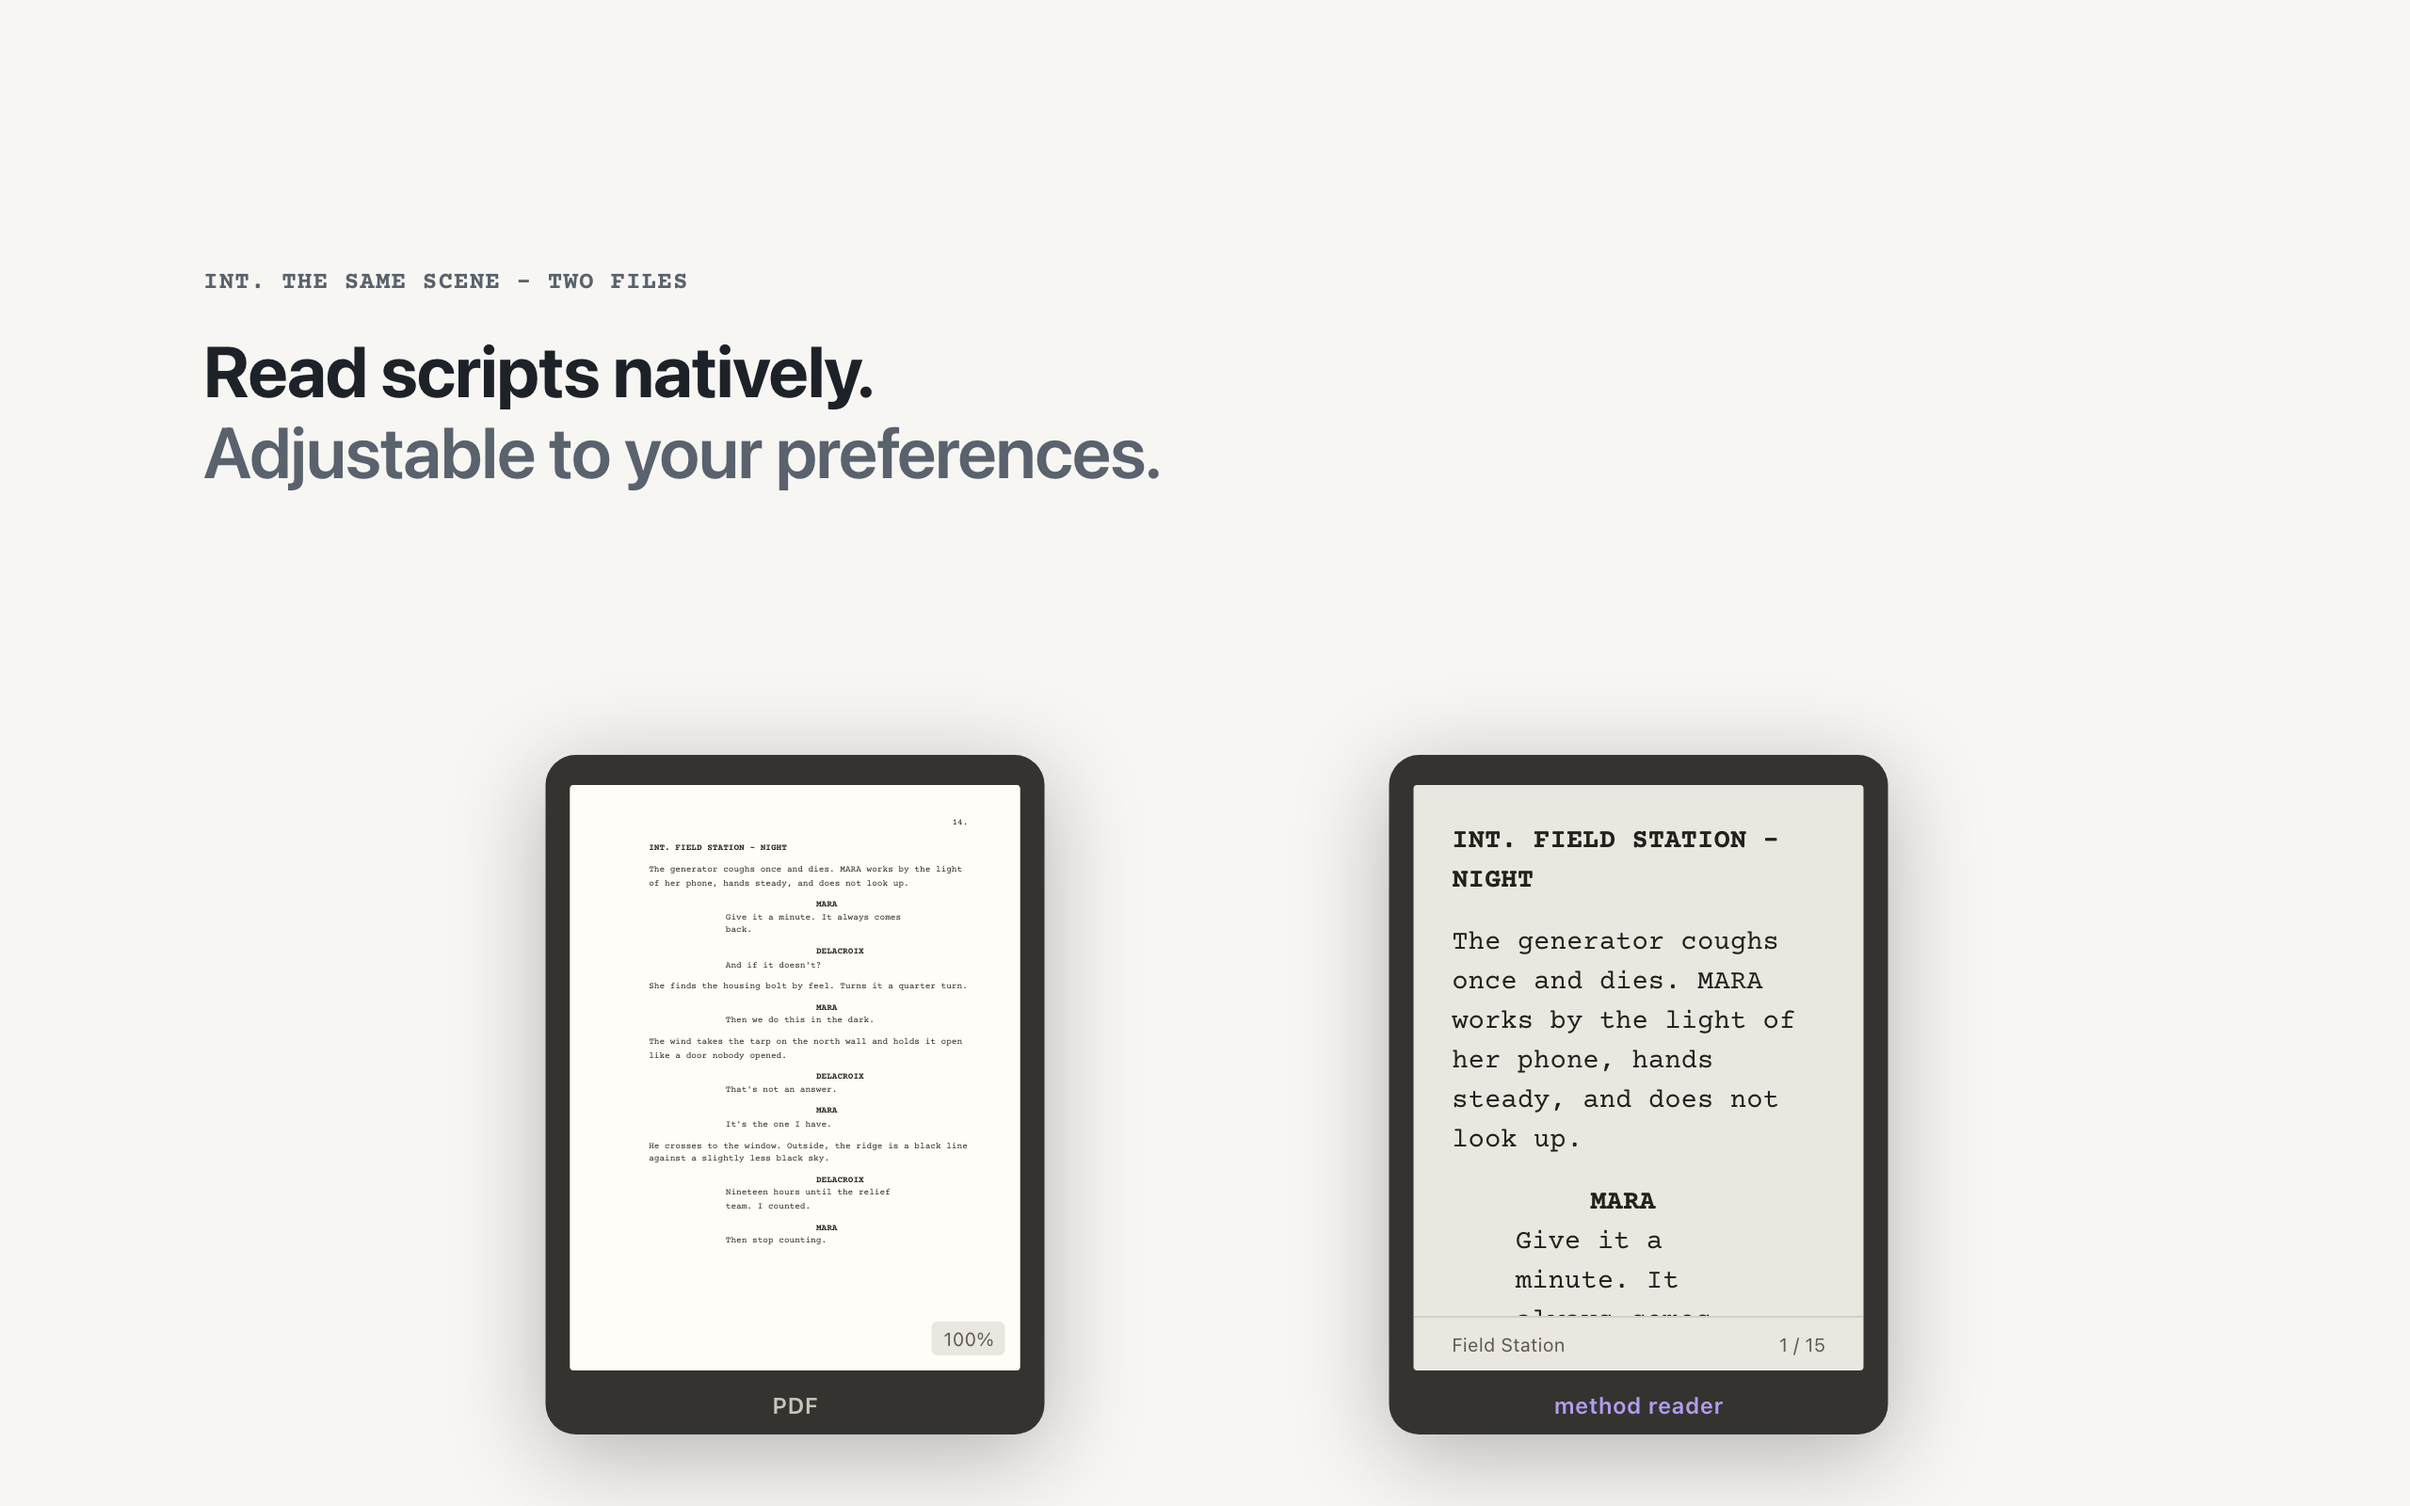
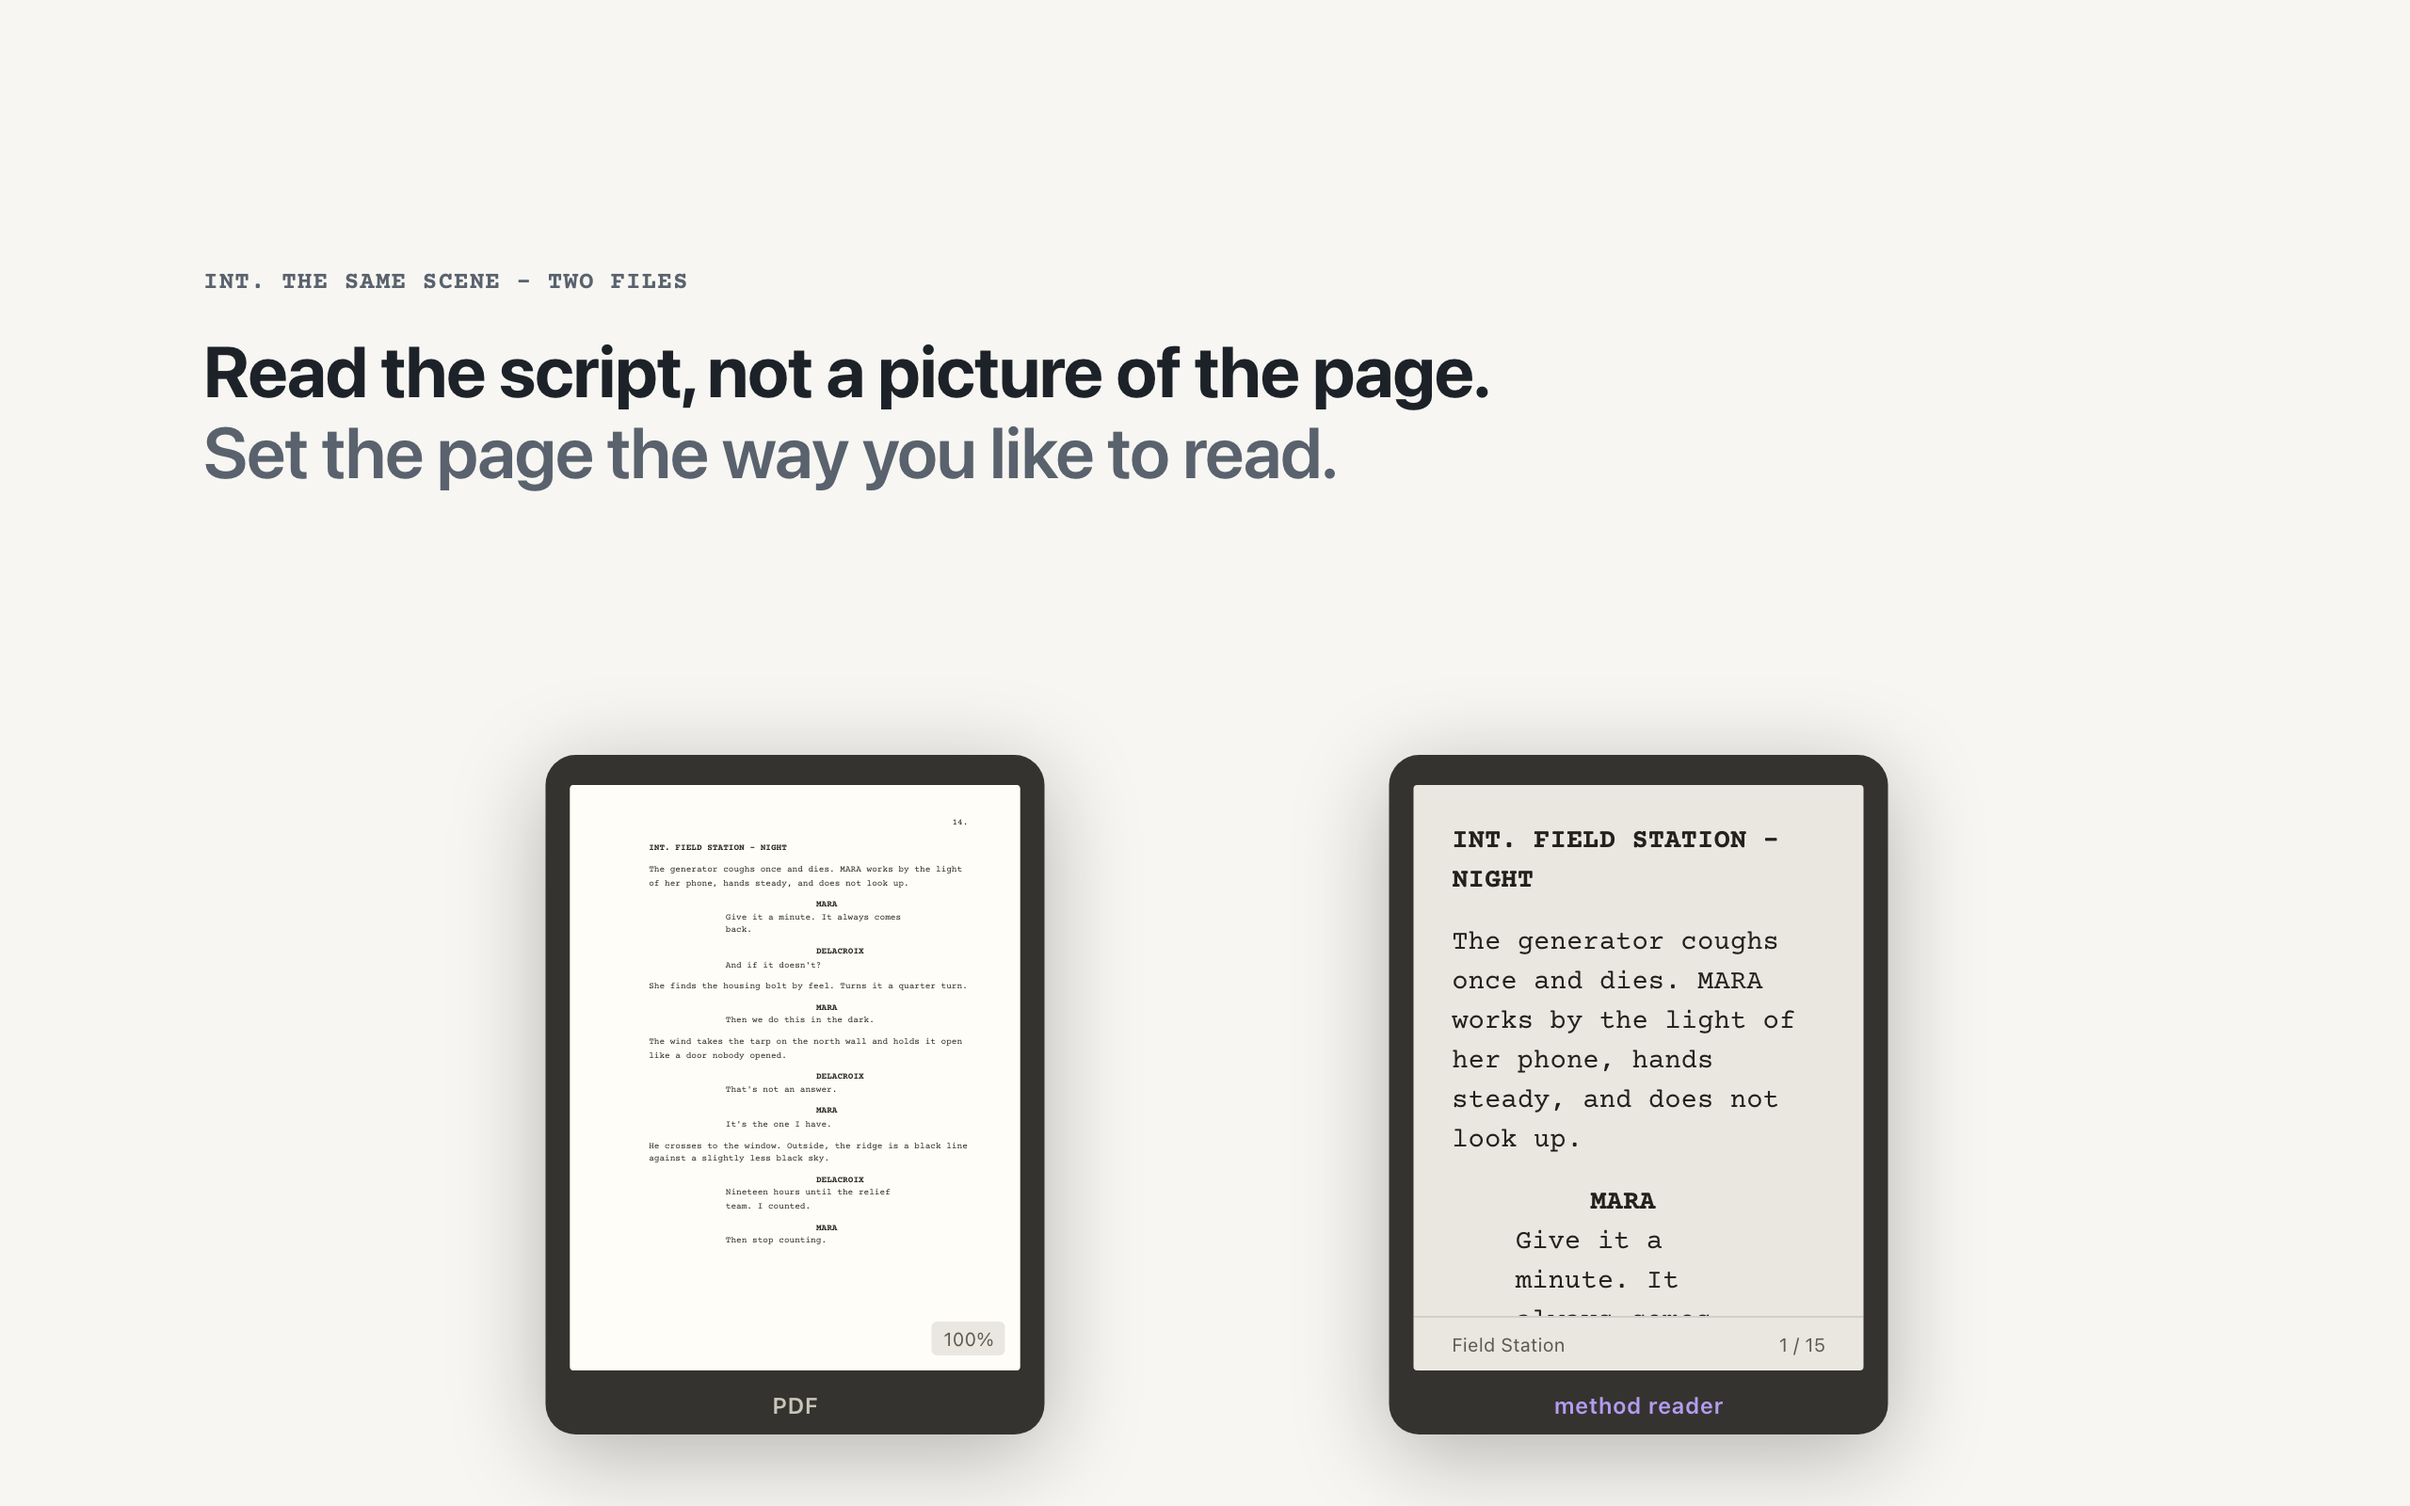
site: fewer stock closing lines, and the settings demo says which controls are whose
MMarketing's review of the page's cadence. "Free. No account." now closes
one block, under the first download button; four more short stock lines
are rewritten:

- the two-files heading: "Read the script, not a picture of the page.
  Set the page the way you like to read."
- the settings lead now says which controls are whose, checked against
  the app: text size and line spacing are the e-reader's own; the space
  between elements, the dialogue margins, the typeface and the page
  numbers are Method Reader's (the Settings page's own knobs);
- the hint under the demo no longer repeats "Every ... is live";
- the Drag and drop lead names what can be changed afterwards;
- the fine print under the second download button says which Macs the
  download is for, and that the Windows and Linux files are below.

The compare picture is the page's own two-files section, so it is
retaken (light and dark, in assets/screens/ and site/img/) with the new
heading; its two e-readers sit where they did, so the film's crops of
them still hold.

Changed region(s): [[0.0625, 0.2188, 0.625, 0.3438]]

diff --git a/site/index.html b/site/index.html
@@ -89,12 +89,12 @@
       </div>
       <div class="phase out" id="p2">
         <div class="slug">INT. THE SAME SCENE - TWO FILES</div>
-        <h2>Read scripts natively. <span class="answer">Adjustable to your preferences.</span></h2>
+        <h2>Read the script, not a picture of the page. <span class="answer">Set the page the way you like to read.</span></h2>
       </div>
       <div class="phase col out" id="p3">
         <div class="slug">INT. ANY TEXT SIZE - CONTINUOUS</div>
         <h2>Set it how you read.</h2>
-        <p class="lead">Every setting here is live. Change one and the script reflows exactly the way it will on your reader.</p>
+        <p class="lead">Every setting here is live. Text size and line spacing are your e-reader&#8217;s own; the space between elements, the dialogue margins, the typeface and the page numbers are Method Reader&#8217;s. Change one and the script reflows the way it will on your reader.</p>
         <div class="panel" id="panel">
           <!-- role=slider, not five buttons: this is one value with five stops,
                and it keeps the whole panel to three tab stops instead of
@@ -110,7 +110,7 @@
             aria-valuemin="1" aria-valuemax="5" aria-valuenow="2"></span></div>
           <div class="row"><span>Typeface</span><button class="pick" type="button" id="pFont">Courier Prime</button></div>
           <div class="row"><span>Page numbers</span><button class="pick" type="button" id="pPg" aria-pressed="false">Off</button></div>
-          <div class="hintline">Every value here is live. Click, or use the arrow keys, to take over.</div>
+          <div class="hintline">Click a value, or use the arrow keys, to change it.</div>
         </div>
       </div>
 
@@ -191,7 +191,7 @@
     <div class="wrap">
     <div class="slug">INT. THE APP - ONE STEP</div>
     <h2>Drag and drop.</h2>
-    <p class="lead">It's that simple. Fine tune anything you like afterwards, and see exactly what the device gets.</p>
+    <p class="lead">Change the spacing, dialogue margins, typeface or page numbers afterwards, and see exactly what the device gets.</p>
     <div class="shots">
       <figure>
         <picture>
@@ -244,7 +244,7 @@
     <p class="note">Also marked beta: pictures from the script carried into the book (with a designed title card as its cover), the .fdx and .osf output, seeing and removing the books on a plugged-in reader, eject on Windows and Linux, and My device isn't here (with It worked and It did not work). A beta feature works in our tests but hasn't been tried widely on real devices or apps yet: tell us how it goes.</p>
     <div class="closer">
       <a class="btn" href="https://github.com/method-production-suite/method-reader/releases/latest/download/Method-Reader-macOS.dmg">Download for Mac</a>
-      <span class="fine">Free. No account. Your script never leaves your machine.</span>
+      <span class="fine">For Macs with Apple silicon or Intel, macOS 13 or later. Windows and Linux files are below.</span>
     </div>
     </div>
   </section>

diff --git a/rust/crates/xtask/tests/site.rs b/rust/crates/xtask/tests/site.rs
@@ -158,7 +158,7 @@ fn the_section_keeps_its_words() {
     assert!(drop.contains("INT. THE APP - ONE STEP"));
     assert!(drop.contains("<h2>Drag and drop.</h2>"));
     assert!(drop.contains(
-        "It's that simple. Fine tune anything you like afterwards, and see exactly what the device gets."
+        "Change the spacing, dialogue margins, typeface or page numbers afterwards, and see exactly what the device gets."
     ));
 }
 
